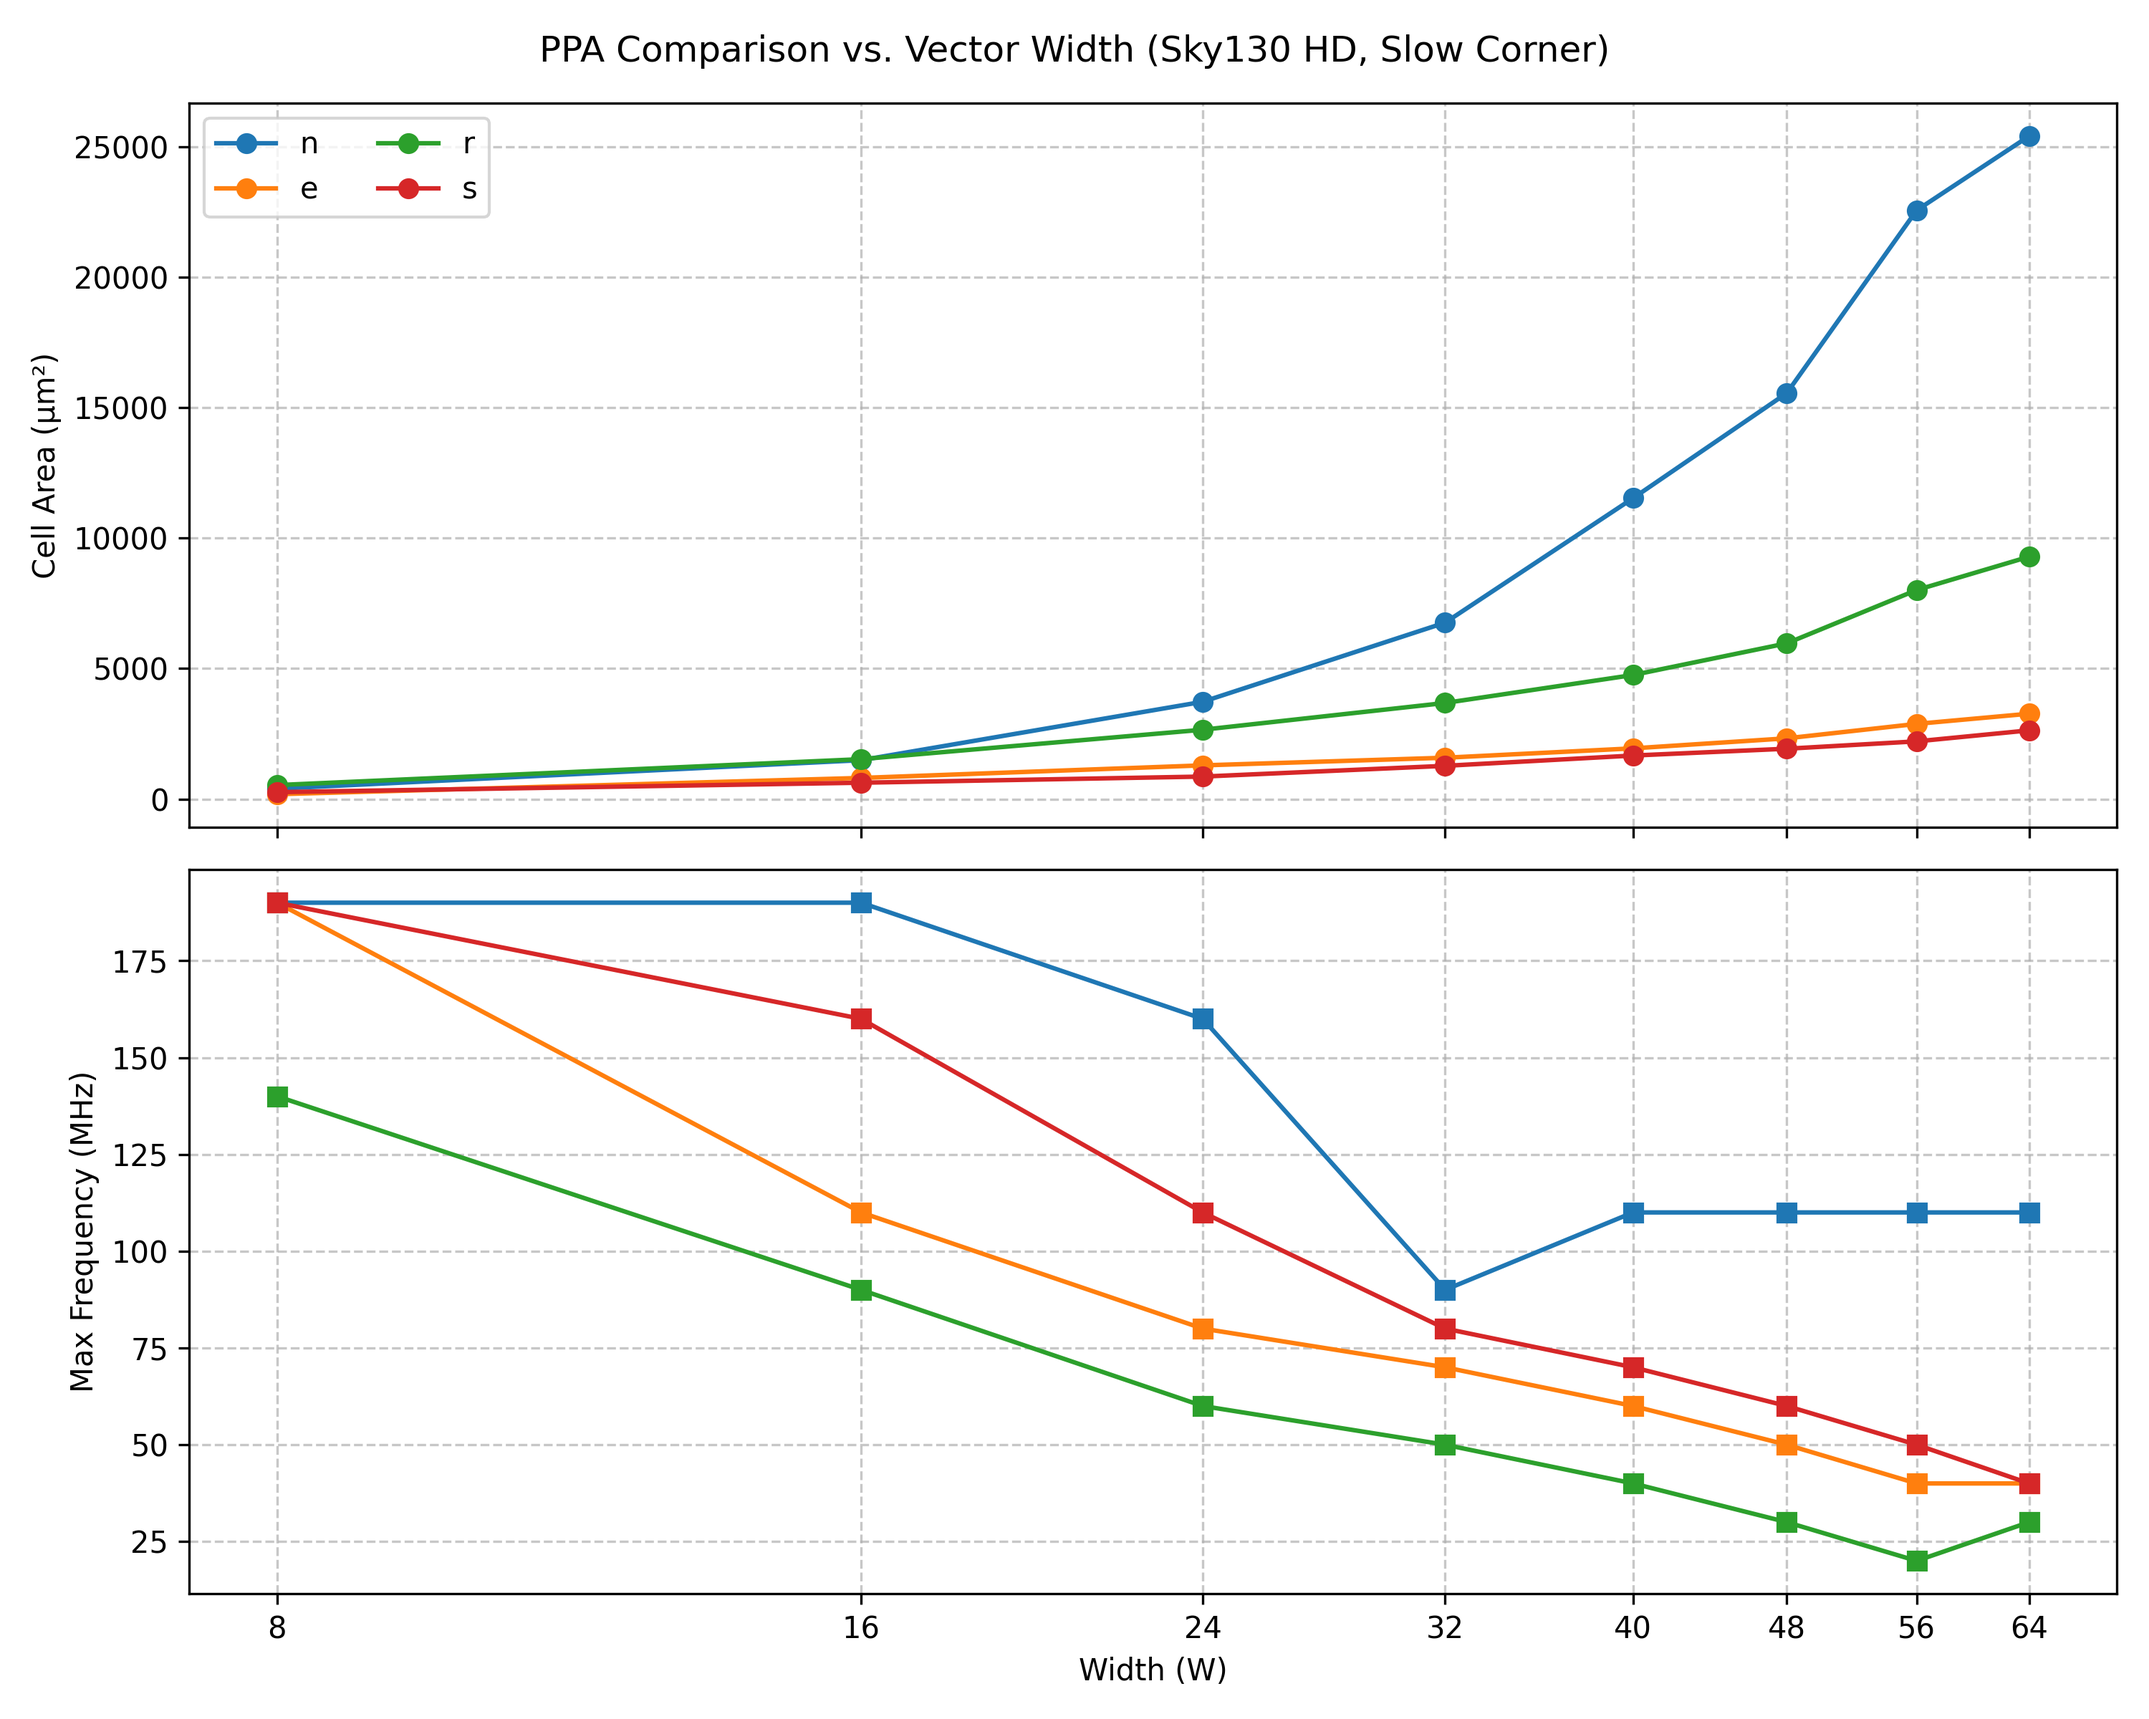
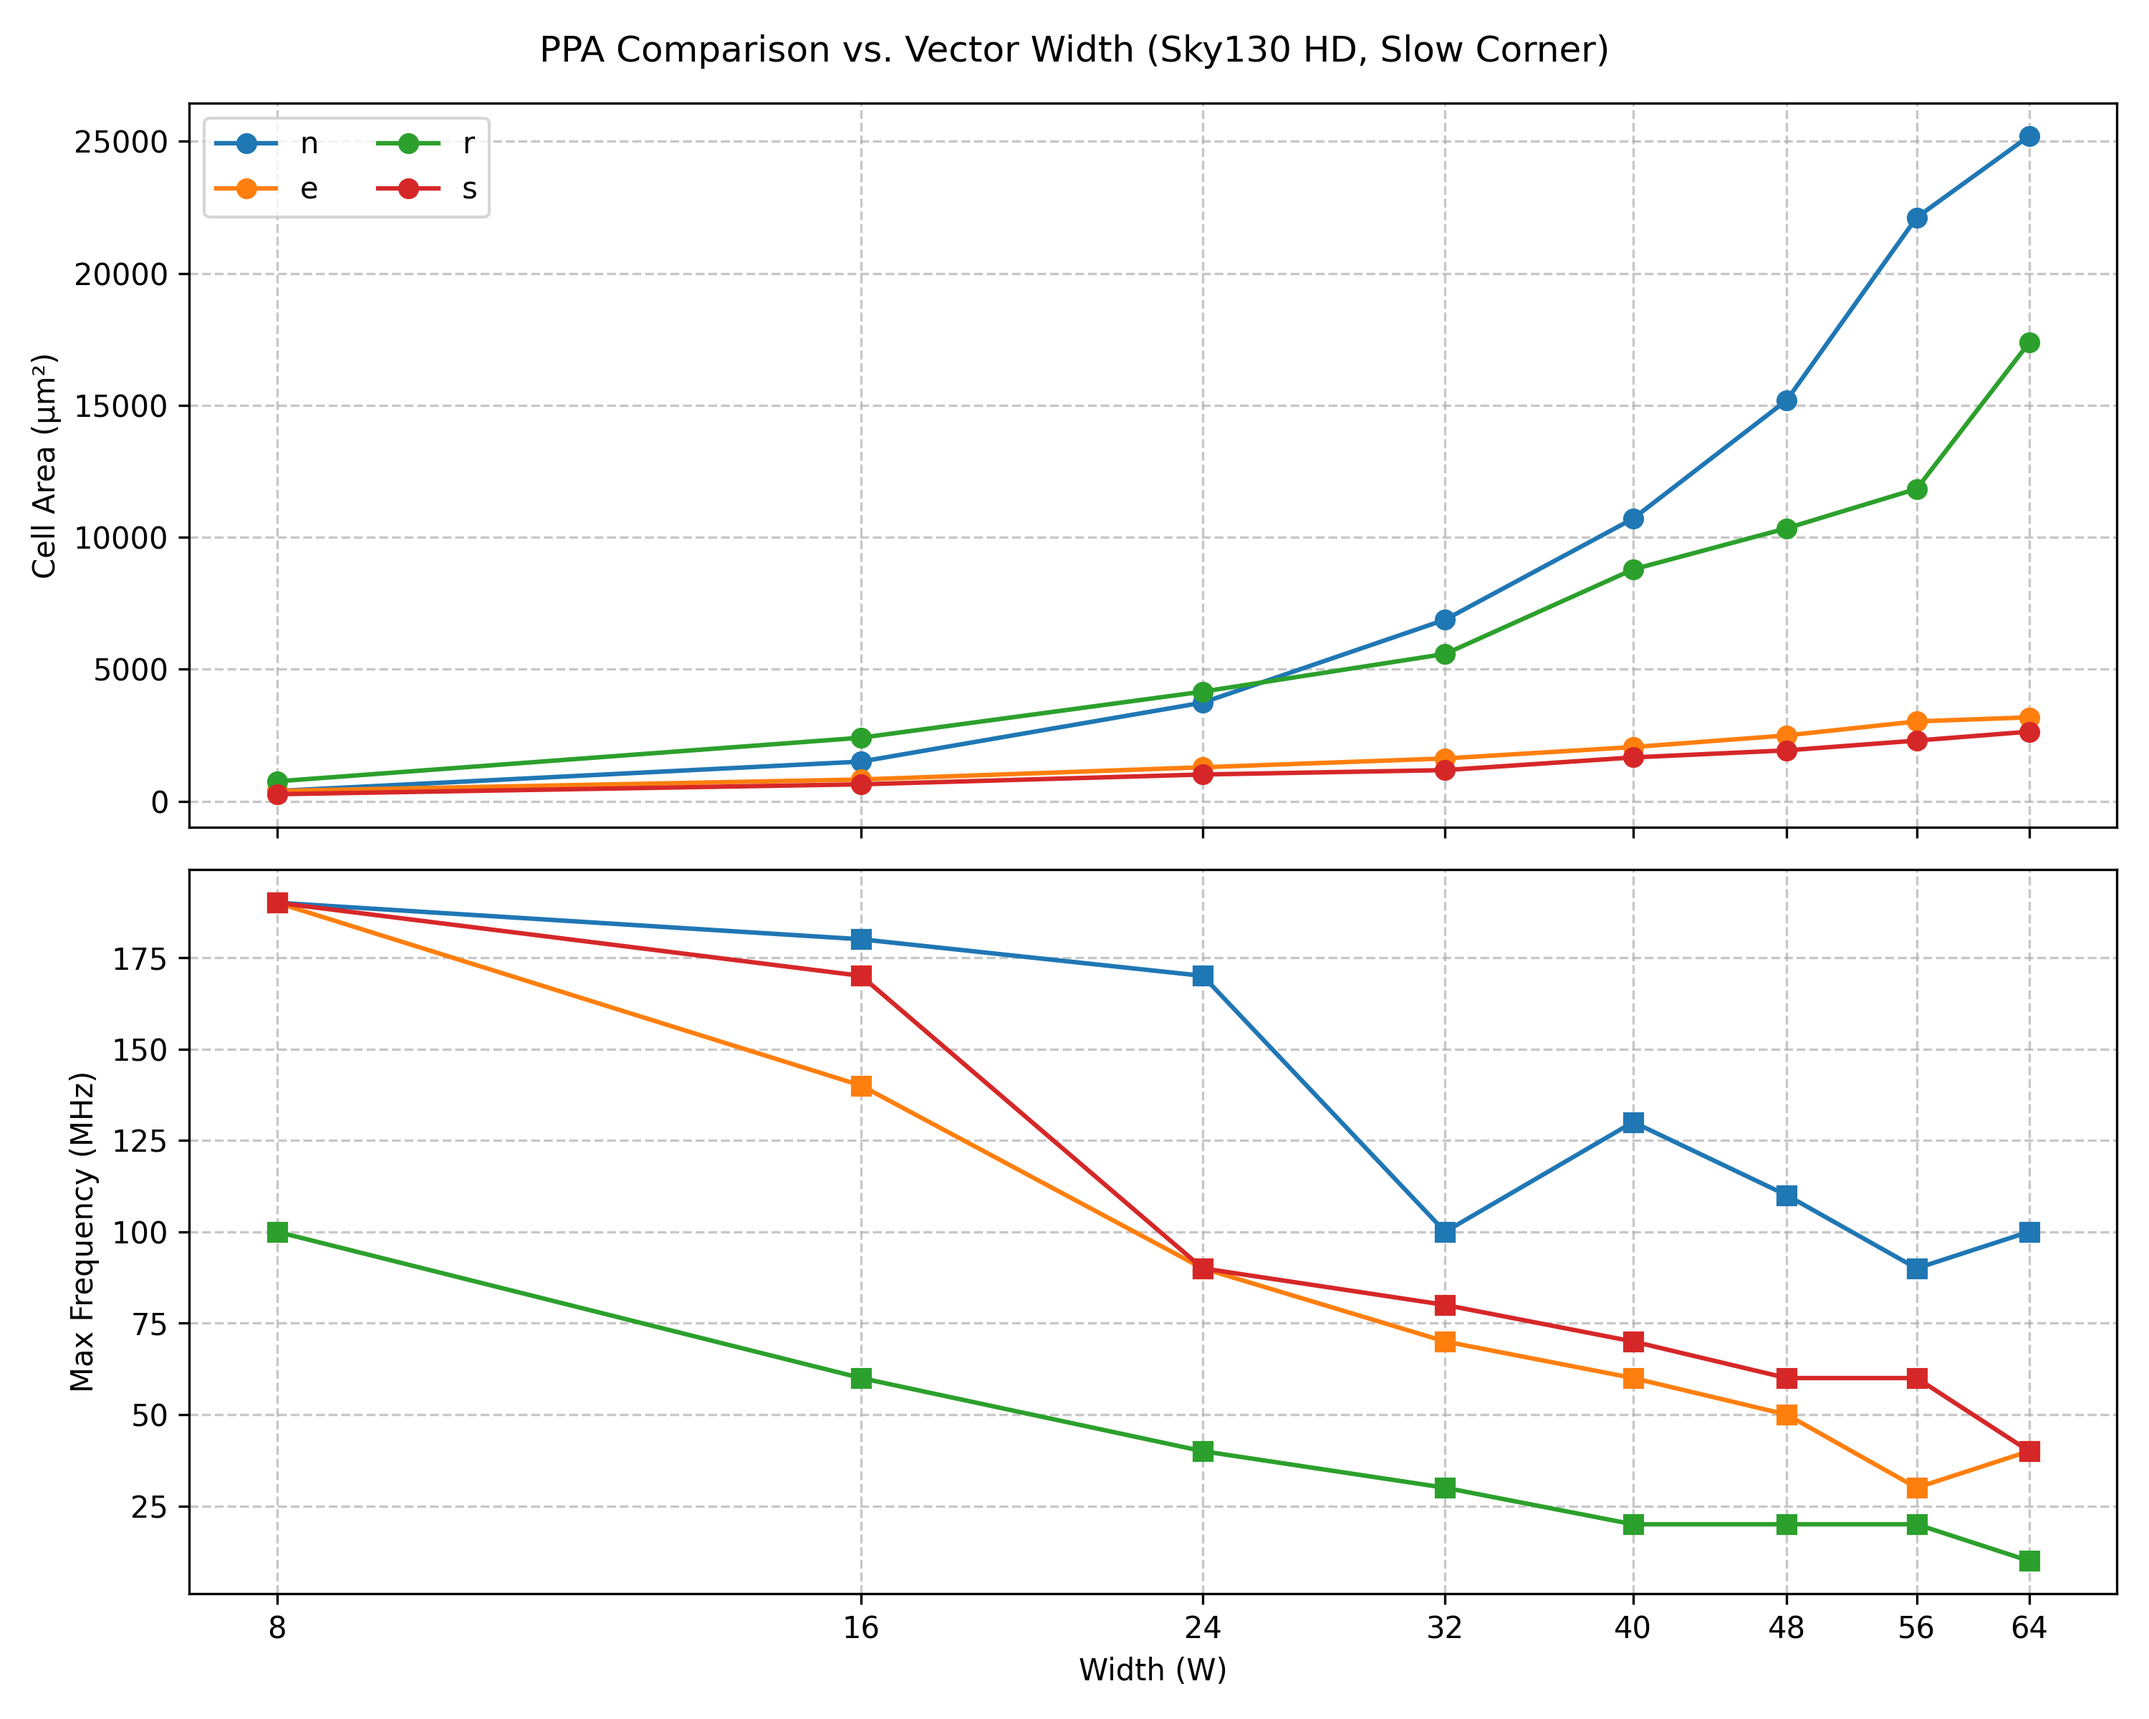
foo

diff --git a/src/common/rtl.py b/src/common/rtl.py
@@ -34,50 +34,56 @@ import tempfile
 from .env import PROJECT_ROOT
 
 
+RTL_ROOT = PROJECT_ROOT / "rtl"
+
 # Specific RTL files for each project
 _PROJECTS = {
     "s": [
-        "s.sv",
+        RTL_ROOT / "s" / "s.sv",
+        RTL_ROOT / "common" / "enc.sv",
+        RTL_ROOT / "common" / "inc.sv",
+        RTL_ROOT / "common" / "maske.sv",
+        RTL_ROOT / "common" / "mux.sv",
+        RTL_ROOT / "common" / "rev.sv",
     ],
     "r": [
-        "r.sv",
+        RTL_ROOT / "r" / "r.sv",
+        RTL_ROOT / "common" / "bs.sv",
+        RTL_ROOT / "common" / "bsi.sv",
+        RTL_ROOT / "common" / "enc.sv",
+        RTL_ROOT / "common" / "mux.sv",
+        RTL_ROOT / "common" / "pri.sv",
+        RTL_ROOT / "common" / "sel.sv",
     ],
     "e": [
-        "e.sv",
-        "e_pri.sv",
+        RTL_ROOT / "e" / "e.sv",
+        RTL_ROOT / "e" / "e_pri.sv",
+        RTL_ROOT / "common" / "dec.sv",
+        RTL_ROOT / "common" / "pri.sv",
+        RTL_ROOT / "common" / "enc.sv",
+        RTL_ROOT / "common" / "mux.sv",
     ],
     "n": [
-        "n.sv",
-        "n_pos.sv",
+        RTL_ROOT / "n" / "n.sv",
+        RTL_ROOT / "n" / "n_pos.sv",
+        RTL_ROOT / "common" / "dec.sv",
+        RTL_ROOT / "common" / "enc.sv",
+        RTL_ROOT / "common" / "rev.sv",
+        RTL_ROOT / "common" / "inc.sv",
+        RTL_ROOT / "common" / "mux.sv",
     ],
     "k": [
-        "k.sv",
-        "k_ff.sv",
+        RTL_ROOT / "k" / "k.sv",
+        RTL_ROOT / "k" / "k_ff.sv",
+        RTL_ROOT / "common" / "enc.sv",
+        RTL_ROOT / "common" / "ks.sv",
+        RTL_ROOT / "common" / "maske.sv",
+        RTL_ROOT / "common" / "rev.sv",
+        RTL_ROOT / "common" / "mux.sv",
     ],
 }
 
-for project, files in _PROJECTS.items():
-    _PROJECTS[project] = [(PROJECT_ROOT / "rtl" / project / f).resolve() for f in files]
-
 ALL_PROJECTS = _PROJECTS.keys()
-
-# Common RTL files used across multiple projects
-_COMMON_FILES = [
-    "enc.sv",
-    "inc.sv",
-    "maske.sv",
-    "mux.sv",
-    "rev.sv",
-    "bs.sv",
-    "bsi.sv",
-    "sel.sv",
-    "pri.sv",
-    "dec.sv",
-    "ks.sv",
-]
-
-for i, f in enumerate(_COMMON_FILES):
-    _COMMON_FILES[i] = (PROJECT_ROOT / "rtl" / "common" / f).resolve()
 
 # All RTL include directories
 _INCLUDE_FILES = [
@@ -230,7 +236,6 @@ def _compute_src_list(project: str) -> list[pathlib.Path]:
 
     file_list = []
     file_list.extend(_PROJECTS[project])
-    file_list.extend(_COMMON_FILES)
 
     return file_list
 

diff --git a/src/syn/cli.py b/src/syn/cli.py
@@ -165,7 +165,7 @@ def run_job(design: str, params: plist, echo: bool = False) -> tuple[int, int, i
         pass
 
 
-def main(args: list[str] = None):
+def run_sweep(args: list[str] = None):
     try:
         # Try to setup Synlig and OpenSTA environments
         from .sta import setup_environment as setup_sta_environment
@@ -210,5 +210,52 @@ def main(args: list[str] = None):
     plot_results(common.PROJECT_ROOT / "docs" / "sweep.png", W_SWEEP, results)
 
 
+def syn(args: list[str] = None):
+    try:
+        # Try to setup Synlig and OpenSTA environments
+        from .sta import setup_environment as setup_sta_environment
+
+        setup_sta_environment()
+
+        from .yosys import setup_environment as setup_yosys_environment
+
+        setup_yosys_environment()
+
+    except EnvironmentError as e:
+        # Oops! Environment not setup correctly
+        print(f"Environment setup error: {e}")
+        return
+
+    import argparse
+
+    parser = argparse.ArgumentParser(description="Synthesis CLI")
+    parser.add_argument(
+        "-p",
+        "--project",
+        type=str,
+        choices=projects.keys(),
+        required=True,
+        help="Project to synthesize",
+    )
+    parser.add_argument(
+        "-w",
+        "--width",
+        type=int,
+        required=True,
+        help="Width (W) parameter for the design under test",
+    )
+    args = parser.parse_args()
+    params = {"W": args.width}
+
+    print(f"Running job: project={args.project}, params={params['W']}")
+
+    # Run synthesis and STA on current parameterization
+    (total_area, sequential_area, f_max) = run_job(args.project, params, echo=True)
+
+    print("total_area: ", total_area)
+    print("sequential_area: ", sequential_area)
+    print("f_max: ", f_max)
+
+
 if __name__ == "__main__":
-    main()
+    syn()

diff --git a/src/syn/top.py b/src/syn/top.py
@@ -80,26 +80,16 @@ module {{module_name}} (
 //
 {{uut}} {{uut_parameters}} u_uut (
   //
-  .x_i                  (in_x_r)
-, .pos_i                (in_pos_r)
+  .x_i                  (x_i)
+, .pos_i                (pos_i)
 //
-, .any_o                (uut_any_o)
-, .y_o                  (uut_y_o)
-, .y_enc_o              (uut_y_enc_o)
+, .any_o                (any_o)
+, .y_o                  (y_o)
+, .y_enc_o              (y_enc_o)
 //
 , .clk                  (clk)
 , .arst_n               (arst_n)
 );
-
-//========================================================================== //
-//                                                                           //
-// Output                                                                    //
-//                                                                           //
-//========================================================================== //
-
-assign any_o = out_any_r;
-assign y_o = out_y_r;
-assign y_enc_o = out_y_enc_r;
 
 endmodule : {{module_name}}
 """

diff --git a/src/tb/regress.py b/src/tb/regress.py
@@ -50,7 +50,7 @@ def run():
         setup_environment()
 
         # (W)idth sweep values
-        WS = [4, 8, 16, 32, 64, 128]
+        WS = [4, 8, 16, 32, 48, 64, 56, 128]
 
         for project in common.ALL_PROJECTS:
             for w in WS:
